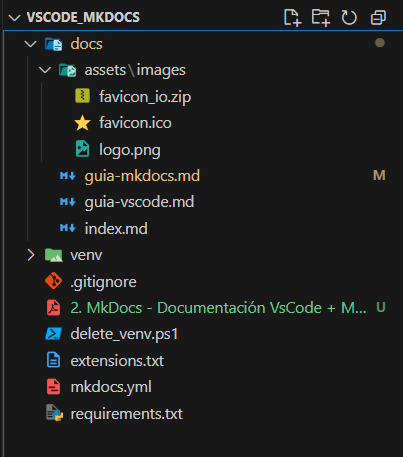
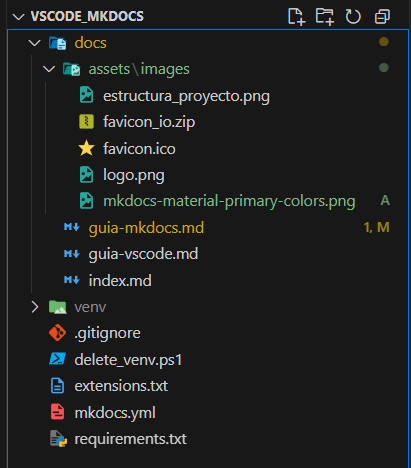
documentación actual con el punto "10. subir el proyecto a GitHub Pages para hacerlo público" SIN EMPEZAR

diff --git a/docs/guia-mkdocs.md b/docs/guia-mkdocs.md
@@ -130,7 +130,7 @@ Y arrancamos el servidor de desarrollo con:
 mkdocs serve
 ```
 
-Esto abrirá un sitio web local en:\
+Esto abrirá un sitio web local en:  
 👉 [http://127.0.0.1:8000](http://127.0.0.1:8000/)
 
 A medida que editemos los archivos Markdown, los cambios se reflejarán automáticamente en el navegador.
@@ -195,15 +195,12 @@ pip install -r requirements.txt`
 
 ---
 
-Perfecto, tu archivo `guia-mkdocs.md` está muy bien organizado y claro. A continuación te presento el bloque siguiente: la **configuración básica del archivo `mkdocs.yml`**, siguiendo el estilo y estructura que llevas.
-
----
-
 ## 🧩 7. Configurar el archivo `mkdocs.yml`
 
 ---
 
-El archivo `mkdocs.yml` es el archivo de configuración principal del proyecto. Desde aquí podemos definir:
+El archivo `mkdocs.yml` es el archivo de configuración principal del proyecto.  
+Desde aquí podemos definir:
 
 - El **nombre del sitio web**.
 
@@ -231,7 +228,8 @@ Esto define el nombre del sitio y activa el tema `material` (si lo hemos instala
 
 ### 📌 Navegación
 
-Podemos personalizar el orden y los títulos del menú con la clave `nav`. Por ejemplo, si hemos creado varios archivos `.md` dentro de `docs/`, como:
+Podemos personalizar el orden y los títulos del menú con la clave `nav`.  
+Por ejemplo, si hemos creado varios archivos `.md` dentro de `docs/`, como:
 
 ```pgsql
 docs/
@@ -287,7 +285,8 @@ Y actualizamos el navegador en [http://127.0.0.1:8000](http://127.0.0.1:8000/) p
 
 ---
 
-MkDocs permite personalizar el diseño de nuestro sitio si estamos utilizando el tema `material`. Podemos modificar los **colores**, el **favicon**, el **logo**, el **idioma** y más elementos visuales para adaptarlo a nuestras necesidades.
+MkDocs permite personalizar el diseño de nuestro sitio si estamos utilizando el tema `material`.  
+Podemos modificar los **colores**, el **favicon**, el **logo**, el **idioma** y más elementos visuales para adaptarlo a nuestras necesidades.
 
 > 📚 Documentación oficial del tema Material:  
 > 👉 [https://squidfunk.github.io/mkdocs-material/setup/changing-the-colors/](https://squidfunk.github.io/mkdocs-material/setup/changing-the-colors/
@@ -310,6 +309,9 @@ theme:
 
 Colores disponibles: `red`, `pink`, `purple`, `deep purple`, `indigo`, `blue`, `light blue`, `cyan`, `teal`, `green`, `light green`, `lime`, `yellow`, `amber`, `orange`, `deep orange`, `brown`, `grey`, `blue grey`.
 
+![mkdocs-material-primary-colors](/assets/images/mkdocs-material-primary-colors.png)
+
+
 > 📝 Referencia de colores disponibles:  
 > 👉 [https://squidfunk.github.io/mkdocs-material/setup/changing-the-colors/#primary-and-accent-colors](https://squidfunk.github.io/mkdocs-material/setup/changing-the-colors/#primary-and-accent-colors)
 
@@ -322,7 +324,7 @@ Podemos indicar el idioma para que los elementos de la interfaz (como "Search" o
 ```yaml
 theme:
   name: material
-  language: es`
+  language: es
 ```
 
 > 🌍 Lista de idiomas disponibles:  
@@ -395,7 +397,9 @@ theme:
 
 ---
 
-### 🧪 Ejemplo completo de configuración visual
+## 📙 9. Contenido de `mkdocs.yml` y Estructura del Proyecto
+
+El **contenido** final que tenemos actualmente en nuestro documento **de configuración `mkdocs.yml`**:  
 
 ```yaml
 #mkdocs.yml
@@ -416,8 +420,10 @@ nav:
   - 2. MkDocs: guia-mkdocs.md
 ```
 
-<!-- ![Estructura del proyecto](/assets/images/estructura_proyecto.png) -->
-<figure>
-    <img src="/assets/images/estructura_proyecto.png" alt="Estructura del proyecto"/>
-    <figcaption>Estructura del proyecto</figcaption>
-</figure>
+La **estructura completa del proyecto** actualmente se verá como sigue:
+
+![Estructura del proyecto](/assets/images/estructura_proyecto.png)  
+
+## 🐱📃 10. subir el proyecto a GitHub Pages para hacerlo público
+
+🧷 [https://www.mkdocs.org/user-guide/cli/#mkdocs](https://www.mkdocs.org/user-guide/cli/#mkdocs)
